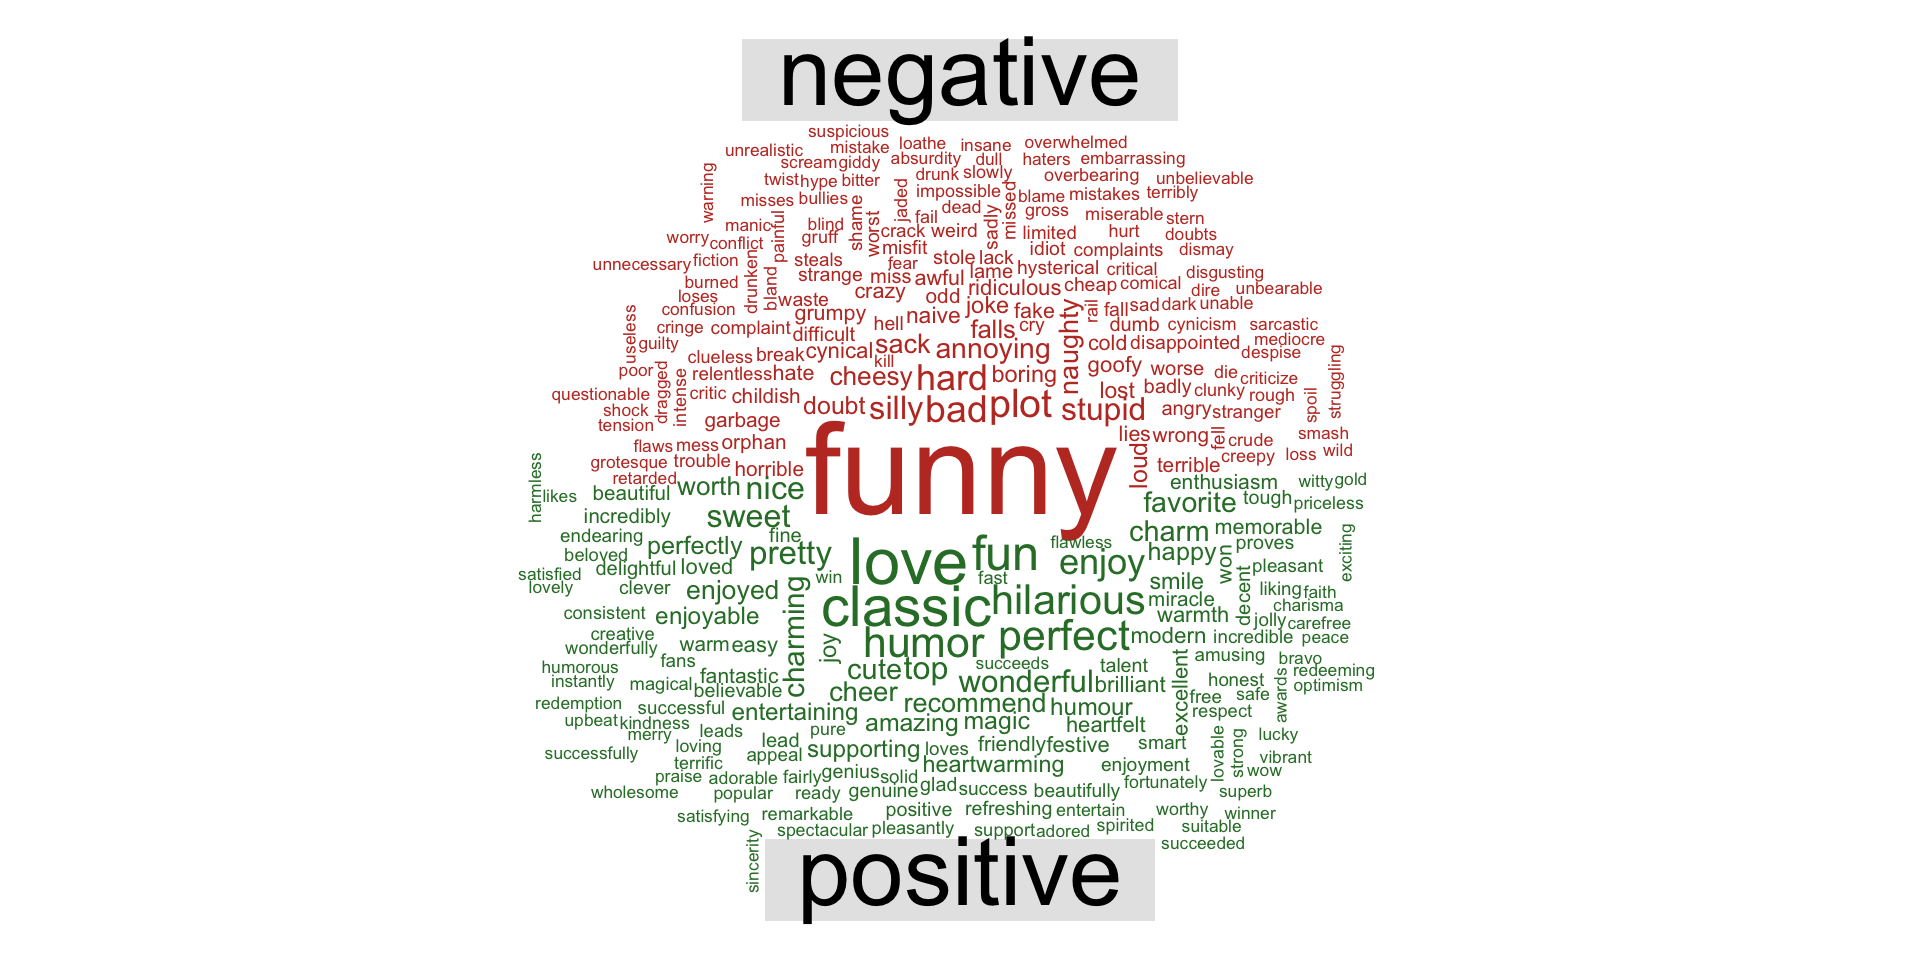
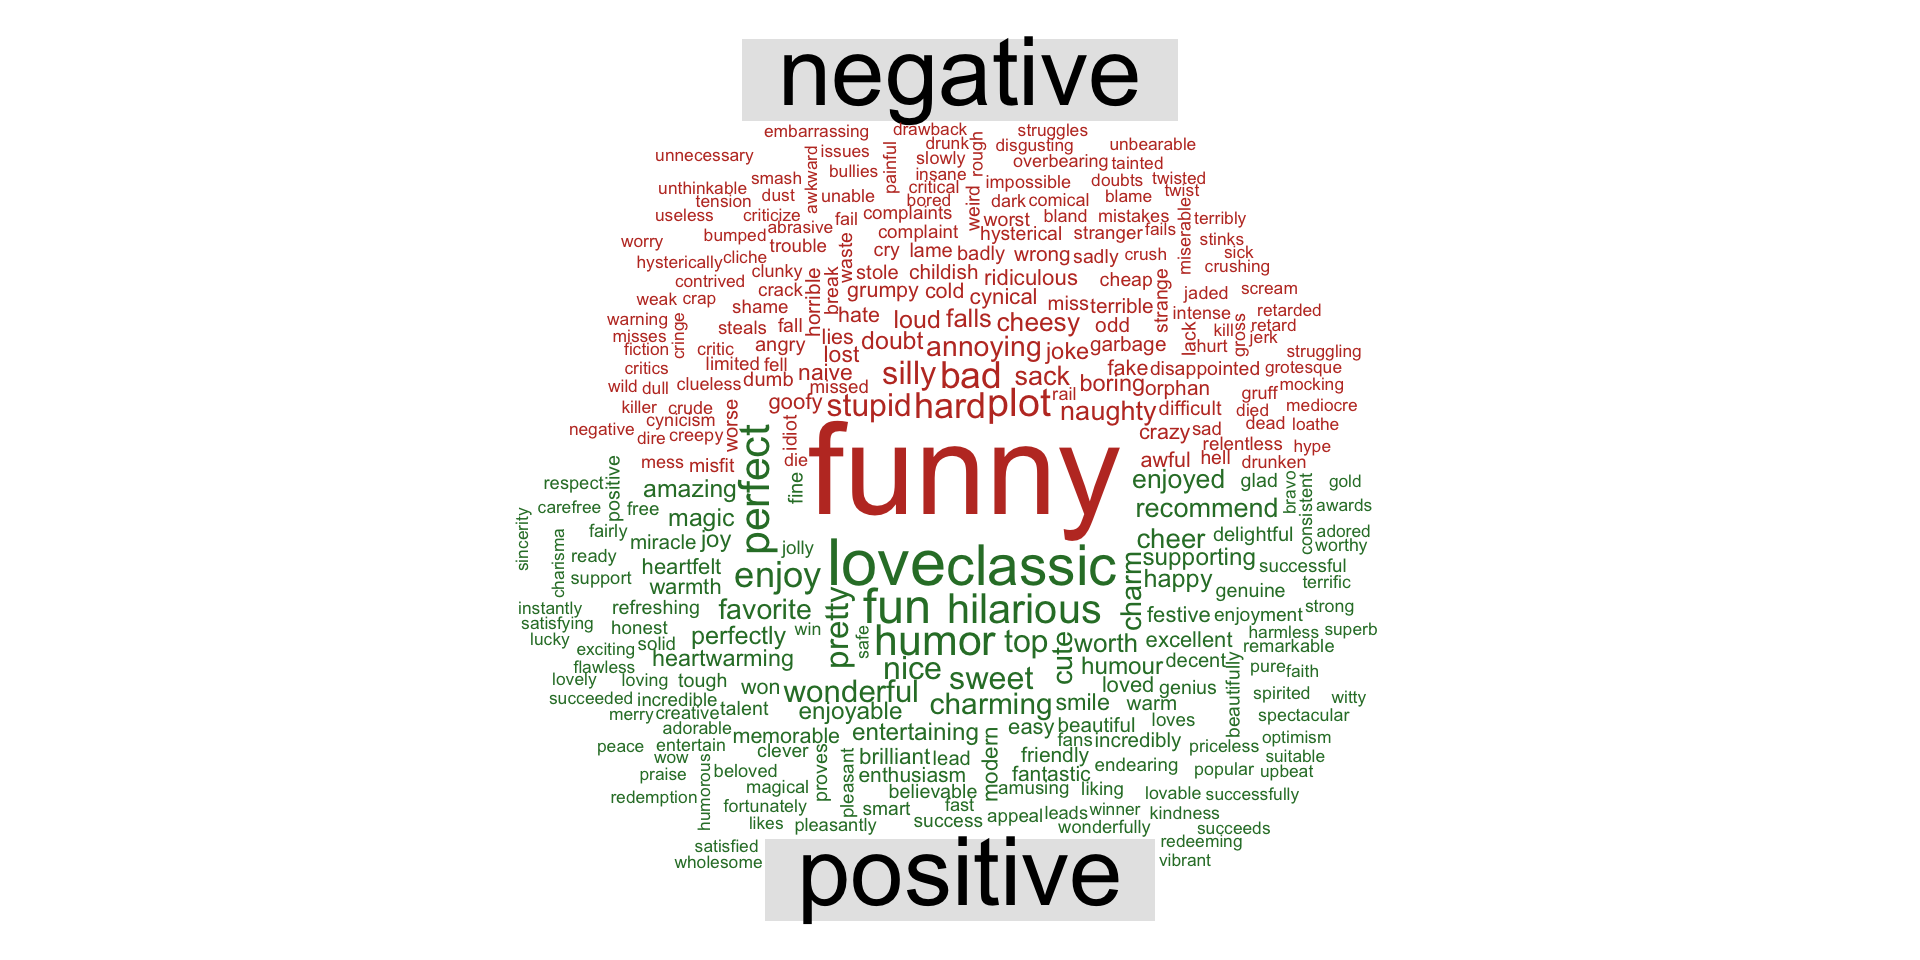
update code chunks, add url to footnote, and update img

Changed region(s): [[0.25, 0.125, 0.7188, 0.9062]]

diff --git a/index.html b/index.html
@@ -426,9 +426,8 @@ Randi Bolt
 </div>
 </div><div class="column" style="width:25%;">
 <div class="fragment">
-<p><img data-src="img/elf.jpg" style="width:100.0%"></p>
 <div style="text-align: center;">
-<p><strong>Topic Modeling</strong></p>
+<p><img data-src="images/clipboard-3186872188.png"><strong>Topic Modeling</strong></p>
 </div>
 </div>
 </div>
@@ -457,26 +456,25 @@ Randi Bolt
 <section id="step-1-clean-the-data" class="slide level2">
 <h2>Step 1: Clean the Data</h2>
 <div class="cell">
-<div class="sourceCode cell-code" id="cb1" data-code-line-numbers="1|3|4|5-6|7-12"><pre class="sourceCode numberSource r number-lines code-with-copy"><code class="sourceCode r"><span id="cb1-1"><a href=""></a><span class="fu">library</span>(tidyverse)</span>
-<span id="cb1-2"><a href=""></a></span>
-<span id="cb1-3"><a href=""></a>clean_text <span class="ot">&lt;-</span> <span class="cf">function</span>(data, text) {</span>
-<span id="cb1-4"><a href=""></a>  data <span class="sc">|&gt;</span></span>
-<span id="cb1-5"><a href=""></a>    <span class="fu">mutate</span>(</span>
-<span id="cb1-6"><a href=""></a>      <span class="at">text_clean =</span> {{ text }} <span class="sc">|&gt;</span></span>
-<span id="cb1-7"><a href=""></a>        <span class="fu">str_to_lower</span>() <span class="sc">|&gt;</span></span>
-<span id="cb1-8"><a href=""></a>        <span class="fu">str_replace_all</span>(<span class="st">"&lt;br</span><span class="sc">\\</span><span class="st">s*/?&gt;"</span>, <span class="st">" "</span>) <span class="sc">|&gt;</span></span>
-<span id="cb1-9"><a href=""></a>        <span class="fu">str_replace_all</span>(<span class="st">"[^a-z0-9</span><span class="sc">\\</span><span class="st">s]"</span>, <span class="st">" "</span>) <span class="sc">|&gt;</span></span>
-<span id="cb1-10"><a href=""></a>        <span class="fu">str_squish</span>()</span>
-<span id="cb1-11"><a href=""></a>    )</span>
-<span id="cb1-12"><a href=""></a>}</span></code><button title="Copy to Clipboard" class="code-copy-button"><i class="bi"></i></button></pre></div>
+<div class="sourceCode cell-code" id="cb1" data-code-line-numbers="1|2|3-5|6-9"><pre class="sourceCode numberSource r number-lines code-with-copy"><code class="sourceCode r"><span id="cb1-1"><a href=""></a><span class="fu">library</span>(tidyverse)</span>
+<span id="cb1-2"><a href=""></a>clean_text <span class="ot">&lt;-</span> <span class="cf">function</span>(raw_data, text) {</span>
+<span id="cb1-3"><a href=""></a>  raw_data <span class="sc">|&gt;</span></span>
+<span id="cb1-4"><a href=""></a>    <span class="fu">mutate</span>(</span>
+<span id="cb1-5"><a href=""></a>      <span class="at">text_clean =</span> {{ text }} <span class="sc">|&gt;</span></span>
+<span id="cb1-6"><a href=""></a>        <span class="fu">str_to_lower</span>() <span class="sc">|&gt;</span></span>
+<span id="cb1-7"><a href=""></a>        <span class="fu">str_replace_all</span>(<span class="st">"&lt;br</span><span class="sc">\\</span><span class="st">s*/?&gt;"</span>, <span class="st">" "</span>) <span class="sc">|&gt;</span></span>
+<span id="cb1-8"><a href=""></a>        <span class="fu">str_replace_all</span>(<span class="st">"[^a-z0-9</span><span class="sc">\\</span><span class="st">s]"</span>, <span class="st">" "</span>) <span class="sc">|&gt;</span></span>
+<span id="cb1-9"><a href=""></a>        <span class="fu">str_squish</span>()</span>
+<span id="cb1-10"><a href=""></a>    )</span>
+<span id="cb1-11"><a href=""></a>}</span></code><button title="Copy to Clipboard" class="code-copy-button"><i class="bi"></i></button></pre></div>
 </div>
 </section>
 <section id="step-2-tokenize-the-text" class="slide level2">
 <h2>Step 2: Tokenize the Text</h2>
 <div class="cell">
 <div class="sourceCode cell-code" id="cb2" data-code-line-numbers="1|2|3-4|5"><pre class="sourceCode numberSource r number-lines code-with-copy"><code class="sourceCode r"><span id="cb2-1"><a href=""></a><span class="fu">library</span>(tidytext)</span>
-<span id="cb2-2"><a href=""></a>tokenize_text <span class="ot">&lt;-</span> <span class="cf">function</span>(data) {</span>
-<span id="cb2-3"><a href=""></a>  data <span class="sc">|&gt;</span></span>
+<span id="cb2-2"><a href=""></a>tokenize_text <span class="ot">&lt;-</span> <span class="cf">function</span>(clean_data) {</span>
+<span id="cb2-3"><a href=""></a>  clean_data <span class="sc">|&gt;</span></span>
 <span id="cb2-4"><a href=""></a>    <span class="fu">unnest_tokens</span>(word, text_clean) <span class="sc">|&gt;</span></span>
 <span id="cb2-5"><a href=""></a>    <span class="fu">anti_join</span>(stop_words, <span class="at">by =</span> <span class="st">"word"</span>)</span>
 <span id="cb2-6"><a href=""></a>}</span></code><button title="Copy to Clipboard" class="code-copy-button"><i class="bi"></i></button></pre></div>
@@ -521,8 +519,8 @@ Randi Bolt
 <h2>Step 4: Sentiment analysis</h2>
 <div class="cell">
 <div class="sourceCode cell-code" id="cb6" data-code-line-numbers="1|2|3-4|5|6-9|10|11|12"><pre class="sourceCode numberSource r number-lines code-with-copy"><code class="sourceCode r"><span id="cb6-1"><a href=""></a><span class="fu">library</span>(wordcloud)</span>
-<span id="cb6-2"><a href=""></a>sentiment_wordcloud <span class="ot">&lt;-</span> <span class="cf">function</span>(data, <span class="at">lexicon =</span> <span class="st">"bing"</span>) {</span>
-<span id="cb6-3"><a href=""></a>  data <span class="sc">|&gt;</span></span>
+<span id="cb6-2"><a href=""></a>sentiment_wordcloud <span class="ot">&lt;-</span> <span class="cf">function</span>(tokenize_data, <span class="at">lexicon =</span> <span class="st">"bing"</span>) {</span>
+<span id="cb6-3"><a href=""></a>  tokenize_data <span class="sc">|&gt;</span></span>
 <span id="cb6-4"><a href=""></a>    <span class="fu">inner_join</span>(<span class="fu">get_sentiments</span>(lexicon), <span class="at">by =</span> <span class="st">"word"</span>) <span class="sc">|&gt;</span></span>
 <span id="cb6-5"><a href=""></a>    <span class="fu">count</span>(word, sentiment) <span class="sc">|&gt;</span></span>
 <span id="cb6-6"><a href=""></a>    <span class="fu">pivot_wider</span>(</span>
@@ -530,9 +528,8 @@ Randi Bolt
 <span id="cb6-8"><a href=""></a>      <span class="at">values_from =</span> n, </span>
 <span id="cb6-9"><a href=""></a>      <span class="at">values_fill =</span> <span class="dv">0</span>) <span class="sc">|&gt;</span></span>
 <span id="cb6-10"><a href=""></a>    <span class="fu">column_to_rownames</span>(<span class="st">"word"</span>) <span class="sc">|&gt;</span></span>
-<span id="cb6-11"><a href=""></a>   <span class="co"># as.matrix() |&gt;</span></span>
-<span id="cb6-12"><a href=""></a>    <span class="fu">comparison.cloud</span>(<span class="at">colors =</span> <span class="fu">c</span>(<span class="st">"#C0392B"</span>, <span class="st">"#2E7D32"</span>))</span>
-<span id="cb6-13"><a href=""></a>}</span></code><button title="Copy to Clipboard" class="code-copy-button"><i class="bi"></i></button></pre></div>
+<span id="cb6-11"><a href=""></a>    <span class="fu">comparison.cloud</span>(<span class="at">colors =</span> <span class="fu">c</span>(<span class="st">"#C0392B"</span>, <span class="st">"#2E7D32"</span>))</span>
+<span id="cb6-12"><a href=""></a>}</span></code><button title="Copy to Clipboard" class="code-copy-button"><i class="bi"></i></button></pre></div>
 </div>
 </section>
 <section id="word-cloud-example" class="slide level2">
@@ -561,7 +558,7 @@ Randi Bolt
 <section id="step-6-choosing-k" class="slide level2">
 <h2>Step 6: Choosing K</h2>
 <div class="cell">
-<div class="sourceCode cell-code" id="cb9" data-code-line-numbers="1|2-6"><pre class="sourceCode numberSource r number-lines code-with-copy"><code class="sourceCode r"><span id="cb9-1"><a href=""></a>search_topics <span class="ot">&lt;-</span> <span class="cf">function</span>(stm_data, <span class="at">k =</span> <span class="dv">2</span><span class="sc">:</span><span class="dv">10</span>) {</span>
+<div class="sourceCode cell-code" id="cb9" data-code-line-numbers="1|2-6"><pre class="sourceCode numberSource r number-lines code-with-copy"><code class="sourceCode r"><span id="cb9-1"><a href=""></a>search_topics <span class="ot">&lt;-</span> <span class="cf">function</span>(stm_data, k) {</span>
 <span id="cb9-2"><a href=""></a>  <span class="fu">searchK</span>(</span>
 <span id="cb9-3"><a href=""></a>    <span class="at">documents =</span> stm_data<span class="sc">$</span>documents,</span>
 <span id="cb9-4"><a href=""></a>    <span class="at">vocab =</span> stm_data<span class="sc">$</span>vocab,</span>
@@ -593,7 +590,7 @@ Randi Bolt
 <h2>Choosing K Example</h2>
 <div class="cell">
 <div class="sourceCode cell-code" id="cb10" data-code-line-numbers="1|2|3"><pre class="sourceCode numberSource r number-lines code-with-copy"><code class="sourceCode r"><span id="cb10-1"><a href=""></a>stm_elf <span class="ot">&lt;-</span> <span class="fu">stm_data</span>(tokenize_elf)</span>
-<span id="cb10-2"><a href=""></a>search_k_elf <span class="ot">&lt;-</span> <span class="fu">search_topics</span>(stm_elf)</span>
+<span id="cb10-2"><a href=""></a>search_k_elf <span class="ot">&lt;-</span> <span class="fu">search_topics</span>(stm_elf, <span class="dv">2</span><span class="sc">:</span><span class="dv">10</span>)</span>
 <span id="cb10-3"><a href=""></a><span class="fu">plot</span>(search_k_elf)</span></code><button title="Copy to Clipboard" class="code-copy-button"><i class="bi"></i></button></pre></div>
 </div>
 
@@ -605,10 +602,9 @@ Randi Bolt
 <span id="cb11-2"><a href=""></a>  <span class="fu">stm</span>(</span>
 <span id="cb11-3"><a href=""></a>    <span class="at">documents =</span> preped_data<span class="sc">$</span>documents,</span>
 <span id="cb11-4"><a href=""></a>    <span class="at">vocab =</span> preped_data<span class="sc">$</span>vocab,</span>
-<span id="cb11-5"><a href=""></a>    <span class="at">K =</span> k,</span>
-<span id="cb11-6"><a href=""></a>    <span class="at">init.type =</span> <span class="st">"Spectral"</span></span>
-<span id="cb11-7"><a href=""></a>  )</span>
-<span id="cb11-8"><a href=""></a>}</span></code><button title="Copy to Clipboard" class="code-copy-button"><i class="bi"></i></button></pre></div>
+<span id="cb11-5"><a href=""></a>    <span class="at">K =</span> k</span>
+<span id="cb11-6"><a href=""></a>  )</span>
+<span id="cb11-7"><a href=""></a>}</span></code><button title="Copy to Clipboard" class="code-copy-button"><i class="bi"></i></button></pre></div>
 </div>
 </section>
 <section id="topic-model-example" class="slide level2">
@@ -624,7 +620,7 @@ Randi Bolt
 <p>coming soon…</p>
 <div class="quarto-auto-generated-content">
 <div class="footer footer-default">
-
+<p>making-sense-talk.netlify.app</p>
 </div>
 </div>
 </section>

diff --git a/README.md b/README.md
@@ -1,3 +1,1 @@
-
-
 https://making-sense-talk.netlify.app/#/title-slide